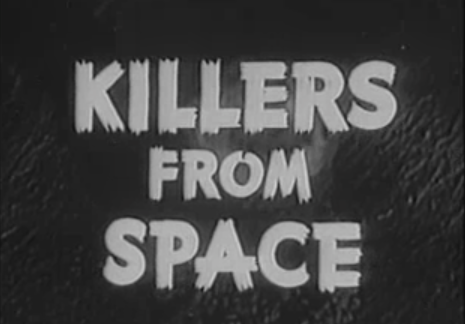
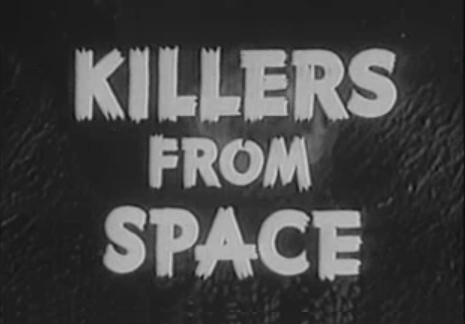
asdf

diff --git a/RWDevConTemplate.xml.js b/RWDevConTemplate.xml.js
@@ -14,7 +14,7 @@ var Template = function() { return `<?xml version="1.0" encoding="UTF-8" ?>
         <section> 
 				  <listItemLockup> 
 				    <title>Most Popular</title>
-				    <decorationLabel>20</decorationLabel>
+				    <decorationLabel>16</decorationLabel>
 				    <relatedContent> 
 				      <grid>
 					  <section> 
@@ -89,26 +89,7 @@ var Template = function() { return `<?xml version="1.0" encoding="UTF-8" ?>
 								    <img src="https://raw.githubusercontent.com/NickCulbertson/VidTest/master/moviethumb.png" width="500" height="308" />
 <title>Carnival of Souls</title>
 </lockup>
-
-					  
-								  <lockup videoURL="https://archive.org/download/night_of_the_living_dead/night_of_the_living_dead_512kb.mp4">
-								    <img src="https://upload.wikimedia.org/wikipedia/commons/5/56/Zombies_NightoftheLivingDead.jpg" width="500" height="308" />
-											<title>Night of The Living Dead</title>
-								  </lockup>
-								  
-								  <lockup videoURL="https://archive.org/download/Plan_9_from_Outer_Space_1959/Plan_9_from_Outer_Space_1959.mp4">
-								    <img src="https://upload.wikimedia.org/wikipedia/commons/e/e7/PlanNine_02.jpg" width="500" height="308" />
-											<title>Plan 9 from Outer Space</title>
-								  </lockup>									
-							          <lockup videoURL="https://archive.org/download/VoyagetothePlanetofPrehistoricWomen/VoyagetothePlanetofPrehistoricWomen_512kb.mp4">
-								    <img src="https://raw.githubusercontent.com/NickCulbertson/VidTest/master/moviethumb.png" width="500" height="308" />
-											<title>Voyage to the Planet of Prehistoric Women</title>
-								  </lockup>								
-								  <lockup videoURL="https://archive.org/download/house_on_haunted_hill_ipod/house_on_haunted_hill_512kb.mp4">
-								    <img src="https://raw.githubusercontent.com/NickCulbertson/VidTest/master/moviethumb.png" width="500" height="308" />
-											<title>House on Haunted Hill</title>
-								  </lockup>			
-								  								
+				
 								 <lockup videoURL="https://archive.org/download/Nosferatu_most_complete_version_93_mins./Nosferatu_1922_Symphony_of_Horror_512kb.mp4">
 								    <img src="https://raw.githubusercontent.com/NickCulbertson/VidTest/master/moviethumb.png" width="500" height="308" />
 <title>Nosferatu (A Symphony of Horror)</title>
@@ -154,22 +135,22 @@ var Template = function() { return `<?xml version="1.0" encoding="UTF-8" ?>
 </lockup>
 
 <lockup videoURL="https://archive.org/download/BloodyPitOfHorror/BloodyPitOfHorror.mp4">
-<img src="https://ia800301.us.archive.org/8/items/BloodyPitOfHorror/BloodyPitOfHorror.thumbs%2FBloodyPitOfHorror_000060.jpg" width="500" height="308" />
+								    <img src="https://raw.githubusercontent.com/NickCulbertson/VidTest/master/bloody.png" width="500" height="308" />
 <title>Bloody Pit of Horror</title>
 </lockup>
 
 <lockup videoURL="https://archive.org/download/Lady_Frankenstein/Lady_Frankenstein_512kb.mp4">
-<img src="https://archive.org/services/img/Lady_Frankenstein" width="500" height="308" />
+								    <img src="https://raw.githubusercontent.com/NickCulbertson/VidTest/master/lady.png" width="500" height="308" />
 <title>Lady Frankenstein</title>
 </lockup>
 
 <lockup videoURL="https://archive.org/download/lost_world/lost_world_512kb.mp4">
-<img src="https://ia800301.us.archive.org/28/items/lost_world/lost_world.thumbs%2Flost_world_000060.jpg" width="500" height="308" />
+								    <img src="https://raw.githubusercontent.com/NickCulbertson/VidTest/master/lost.png" width="500" height="308" />
 <title>The Lost World</title>
 </lockup>
 
 <lockup videoURL="https://archive.org/download/Horror_Express/Horror_Express_512kb.mp4">
-<img src="https://archive.org/services/img/Horror_Express" width="500" height="308" />
+								    <img src="https://raw.githubusercontent.com/NickCulbertson/VidTest/master/horror.png" width="500" height="308" />
 <title>Horror Express</title>
 </lockup>
 
@@ -179,7 +160,7 @@ var Template = function() { return `<?xml version="1.0" encoding="UTF-8" ?>
 </lockup>
 
 <lockup videoURL="https://archive.org/download/Killers_from_space/Killers_from_space_512kb.mp4">
-<img src="https://archive.org/services/img/Killers_from_space" width="500" height="308" />
+								    <img src="https://raw.githubusercontent.com/NickCulbertson/VidTest/master/killers.png" width="500" height="308" />
 <title>Killers From Space</title>
 </lockup>
 
